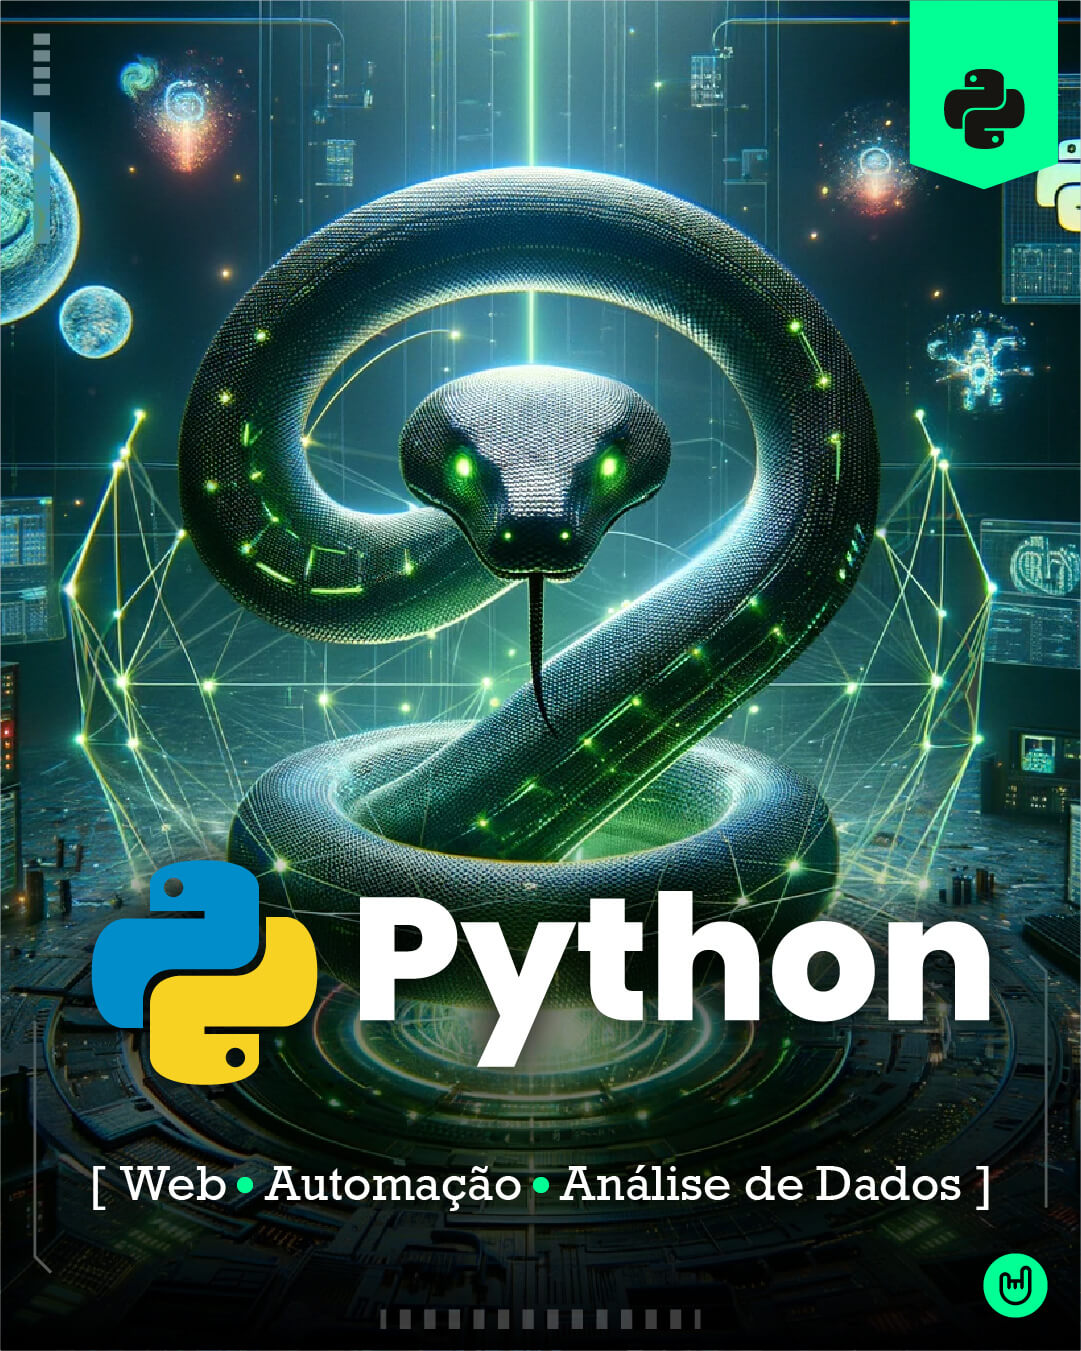
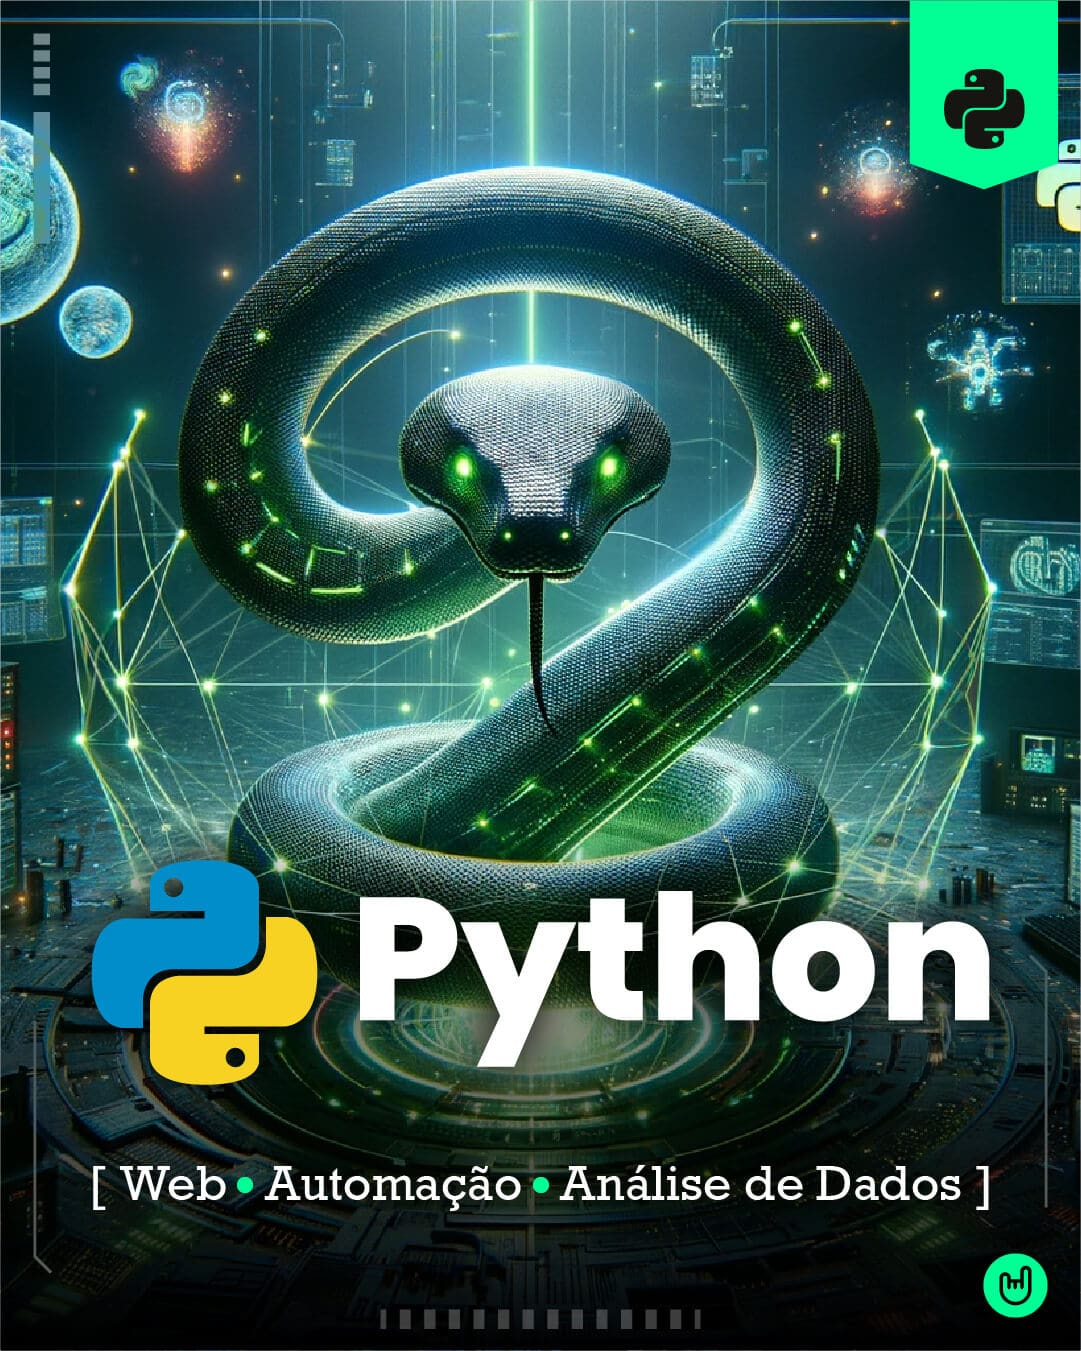
imagens mais leve, pasta global

Changed region(s): [[0.9158, 0.9326, 0.9769, 0.9637], [0.8853, 0.0622, 0.9463, 0.0933], [0.1526, 0.6528, 0.1832, 0.6839]]

diff --git a/index.html b/index.html
@@ -1329,7 +1329,7 @@
                         <div class="swiper-slide">
                             <div class="success-storie-card">
                                 <div class="success-img">
-                                    <img class="img-fluid magnetic-item" src="assets/pro/img/home-3/challengedev.jpg" alt="">
+                                    <img class="img-fluid magnetic-item" src="assets/global/projetos/challengedev.jpg" alt="">
                                 </div>
                                 <div class="success-content">
                                     <span>Helio Fernandes dos Reis Lima</span>
@@ -1348,7 +1348,7 @@
                         <div class="swiper-slide">
                             <div class="success-storie-card">
                                 <div class="success-img">
-                                    <img class="img-fluid magnetic-item" src="assets/pro/img/home-3/Intelliguide.jpg" alt="">
+                                    <img class="img-fluid magnetic-item" src="assets/global/projetos/Intelliguide.jpg" alt="">
                                 </div>
                                 <div class="success-content">
                                     <span>Miquéias Martins • Wesley Ribas</span>
@@ -1367,7 +1367,7 @@
                         <div class="swiper-slide">
                             <div class="success-storie-card">
                                 <div class="success-img">
-                                    <img class="img-fluid magnetic-item" src="assets/pro/img/home-3/wits.jpg" alt="">
+                                    <img class="img-fluid magnetic-item" src="assets/global/projetos/wits.jpg" alt="">
                                 </div>
                                 <div class="success-content">
                                     <span>Bruno Almeida • Davi Batista • Thiago Magno</span>
@@ -1386,7 +1386,7 @@
                         <div class="swiper-slide">
                             <div class="success-storie-card">
                                 <div class="success-img">
-                                    <img class="img-fluid magnetic-item" src="assets/pro/img/home-3/linguix.jpg" alt="">
+                                    <img class="img-fluid magnetic-item" src="assets/global/projetos/linguix.jpg" alt="">
                                 </div>
                                 <div class="success-content">
                                     <span>Jéssica Fernanda</span>
@@ -1492,7 +1492,7 @@
                                         <h3><a href="#depoimentos">"R$7.600 + R$1.900 de VA".</a></h3>
                                     </div>
                                     <div class="blog-img magnetic-item">
-                                        <img class="img-fluid" src="assets/pro/img/depoimentos/depo-7600.png" alt="">
+                                        <img class="img-fluid" src="assets/global/depoimentos/depo-7600.jpg" alt="">
                                     </div>
                                 </div>
                             </div>
@@ -1507,7 +1507,7 @@
                                     </div>
                                     <div class="blog-img magnetic-item">
                                         <a target="_blank" href="https://www.youtube.com/embed/7tvWUtRZynY?si=cODEOX8FB9ROqZJQ">
-                                            <img class="img-fluid" src="assets/pro/img/depoimentos/Artur-Candeia.jpg" alt="">
+                                            <img class="img-fluid" src="assets/global/depoimentos/depo-Artur-Candeia.jpg" alt="">
                                         </a>
                                     </div>
                                 </div>
@@ -1523,7 +1523,7 @@
                                     </div>
                                     <div class="blog-img magnetic-item">
                                         <a target="_blank" href="https://youtu.be/EICtVfrqGaE?si=qRcscTbK4Aq3tMLc">
-                                            <img class="img-fluid" src="assets/pro/img/depoimentos/yuri.jpg" alt="">
+                                            <img class="img-fluid" src="assets/global/depoimentos/depo-yuri.jpg" alt="">
                                         </a>
                                     </div>
                                 </div>
@@ -1539,7 +1539,7 @@
                                     </div>
                                     <div class="blog-img magnetic-item">
                                         <a target="_blank" href="https://youtu.be/M5yekf5Cgq4?si=25g8lL2nFA9rYGoF">
-                                            <img class="img-fluid" src="assets/pro/img/depoimentos/gabriel-ramos.jpg" alt="">
+                                            <img class="img-fluid" src="assets/global/depoimentos/depo-gabriel-ramos.jpg" alt="">
                                         </a>
                                     </div>
                                 </div>
@@ -1556,7 +1556,7 @@
                                                 Miami".</a></h3>
                                     </div>
                                     <div class="blog-img magnetic-item">
-                                        <img class="img-fluid" src="assets/pro/img/depoimentos/depo-miami.png" alt="">
+                                        <img class="img-fluid" src="assets/global/depoimentos/depo-miami.jpg" alt="">
                                     </div>
                                 </div>
                             </div>
@@ -1570,7 +1570,7 @@
                                         <h3><a href="#depoimentos">"Passei no processo de Trainee".</a></h3>
                                     </div>
                                     <div class="blog-img magnetic-item">
-                                        <img class="img-fluid" src="assets/pro/img/depoimentos/depo-trainee.png" alt="">
+                                        <img class="img-fluid" src="assets/global/depoimentos/depo-trainee.jpg" alt="">
                                     </div>
                                 </div>
                             </div>
@@ -1584,7 +1584,7 @@
                                         <h3><a href="#depoimentos">"Meu primeiro dia de estágio na UOL".</a></h3>
                                     </div>
                                     <div class="blog-img magnetic-item">
-                                        <img class="img-fluid" src="assets/pro/img/depoimentos/depo-uol.png" alt="">
+                                        <img class="img-fluid" src="assets/global/depoimentos/depo-uol.jpg" alt="">
                                     </div>
                                 </div>
                             </div>
@@ -1599,7 +1599,7 @@
                                         </h3>
                                     </div>
                                     <div class="blog-img magnetic-item">
-                                        <img class="img-fluid" src="assets/pro/img/depoimentos/depo-vaga.png" alt="">
+                                        <img class="img-fluid" src="assets/global/depoimentos/depo-vaga.jpg" alt="">
                                     </div>
                                 </div>
                             </div>
@@ -1613,7 +1613,7 @@
                                         <h3><a href="#depoimentos">"Meu salário saiu de 4k para 8,5k".</a></h3>
                                     </div>
                                     <div class="blog-img magnetic-item">
-                                        <img class="img-fluid" src="assets/pro/img/depoimentos/depo-salario.png" alt="">
+                                        <img class="img-fluid" src="assets/global/depoimentos/depo-salario.jpg" alt="">
                                     </div>
                                 </div>
                             </div>
@@ -1627,7 +1627,7 @@
                                         <h3><a href="#depoimentos">"R$7.500 para vaga júnior".</a></h3>
                                     </div>
                                     <div class="blog-img magnetic-item">
-                                        <img class="img-fluid" src="assets/pro/img/depoimentos/depo-7500.png" alt="">
+                                        <img class="img-fluid" src="assets/global/depoimentos/depo-7500.jpg" alt="">
                                     </div>
                                 </div>
                             </div>
@@ -1641,7 +1641,7 @@
                                         <h3><a href="#depoimentos">"A melhor experiência que tive".</a></h3>
                                     </div>
                                     <div class="blog-img magnetic-item">
-                                        <img class="img-fluid" src="assets/pro/img/depoimentos/depo-melhor.png" alt="">
+                                        <img class="img-fluid" src="assets/global/depoimentos/depo-melhor.jpg" alt="">
                                     </div>
                                 </div>
                             </div>
@@ -1656,7 +1656,7 @@
                                                 internacional".</a></h3>
                                     </div>
                                     <div class="blog-img magnetic-item">
-                                        <img class="img-fluid" src="assets/pro/img/depoimentos/depo-internacional.png"
+                                        <img class="img-fluid" src="assets/global/depoimentos/depo-internacional.jpg"
                                             alt="">
                                     </div>
                                 </div>
@@ -1672,7 +1672,7 @@
                                                 em Floripa".</a></h3>
                                     </div>
                                     <div class="blog-img magnetic-item">
-                                        <img class="img-fluid" src="assets/pro/img/depoimentos/depo-floripa.png" alt="">
+                                        <img class="img-fluid" src="assets/global/depoimentos/depo-floripa.jpg" alt="">
                                     </div>
                                 </div>
                             </div>
@@ -1687,7 +1687,7 @@
                                                 e toda família OBC me fez continuar".</a></h3>
                                     </div>
                                     <div class="blog-img magnetic-item">
-                                        <img class="img-fluid" src="assets/pro/img/depoimentos/depo-estagio.png" alt="">
+                                        <img class="img-fluid" src="assets/global/depoimentos/depo-estagio.jpg" alt="">
                                     </div>
                                 </div>
                             </div>
@@ -1702,7 +1702,7 @@
                                                 extra".</a></h3>
                                     </div>
                                     <div class="blog-img magnetic-item">
-                                        <img class="img-fluid" src="assets/pro/img/depoimentos/depo-comunidade.png"
+                                        <img class="img-fluid" src="assets/global/depoimentos/depo-comunidade.jpg"
                                             alt="">
                                     </div>
                                 </div>
@@ -1717,7 +1717,7 @@
                                         <h3><a href="#depoimentos">"Consegui a vaga! 5,5k!".</a></h3>
                                     </div>
                                     <div class="blog-img magnetic-item">
-                                        <img class="img-fluid" src="assets/pro/img/depoimentos/depo-5k.png" alt="">
+                                        <img class="img-fluid" src="assets/global/depoimentos/depo-5k.jpg" alt="">
                                     </div>
                                 </div>
                             </div>
@@ -2180,10 +2180,10 @@
                 <div class="col-lg-6 wow animate fadeInRight" data-wow-delay="300ms" data-wow-duration="1500ms">
                     <div class="about-img-wrap">
                         <div class="about-img magnetic-item">
-                            <img class="img-fluid" src="assets/pro/img/comunidade/comunidade-img.png" alt="">
+                            <img class="img-fluid" src="assets/global/comunidade/comunidade-img.png" alt="">
                         </div>
                         <div class="about-video-area magnetic-item">
-                            <img class="img-fluid" src="assets/pro/img/comunidade/comunidade-video.png" alt="">
+                            <img class="img-fluid" src="assets/global/comunidade/comunidade-video.jpg" alt="">
                             <a href="https://youtu.be/Y4hh9lCNgdQ" data-fancybox="gallery"
                                 class="about-video-btn video-popup">
                                 <svg xmlns="http://www.w3.org/2000/svg" width="60" height="60" fill="#f64348"
